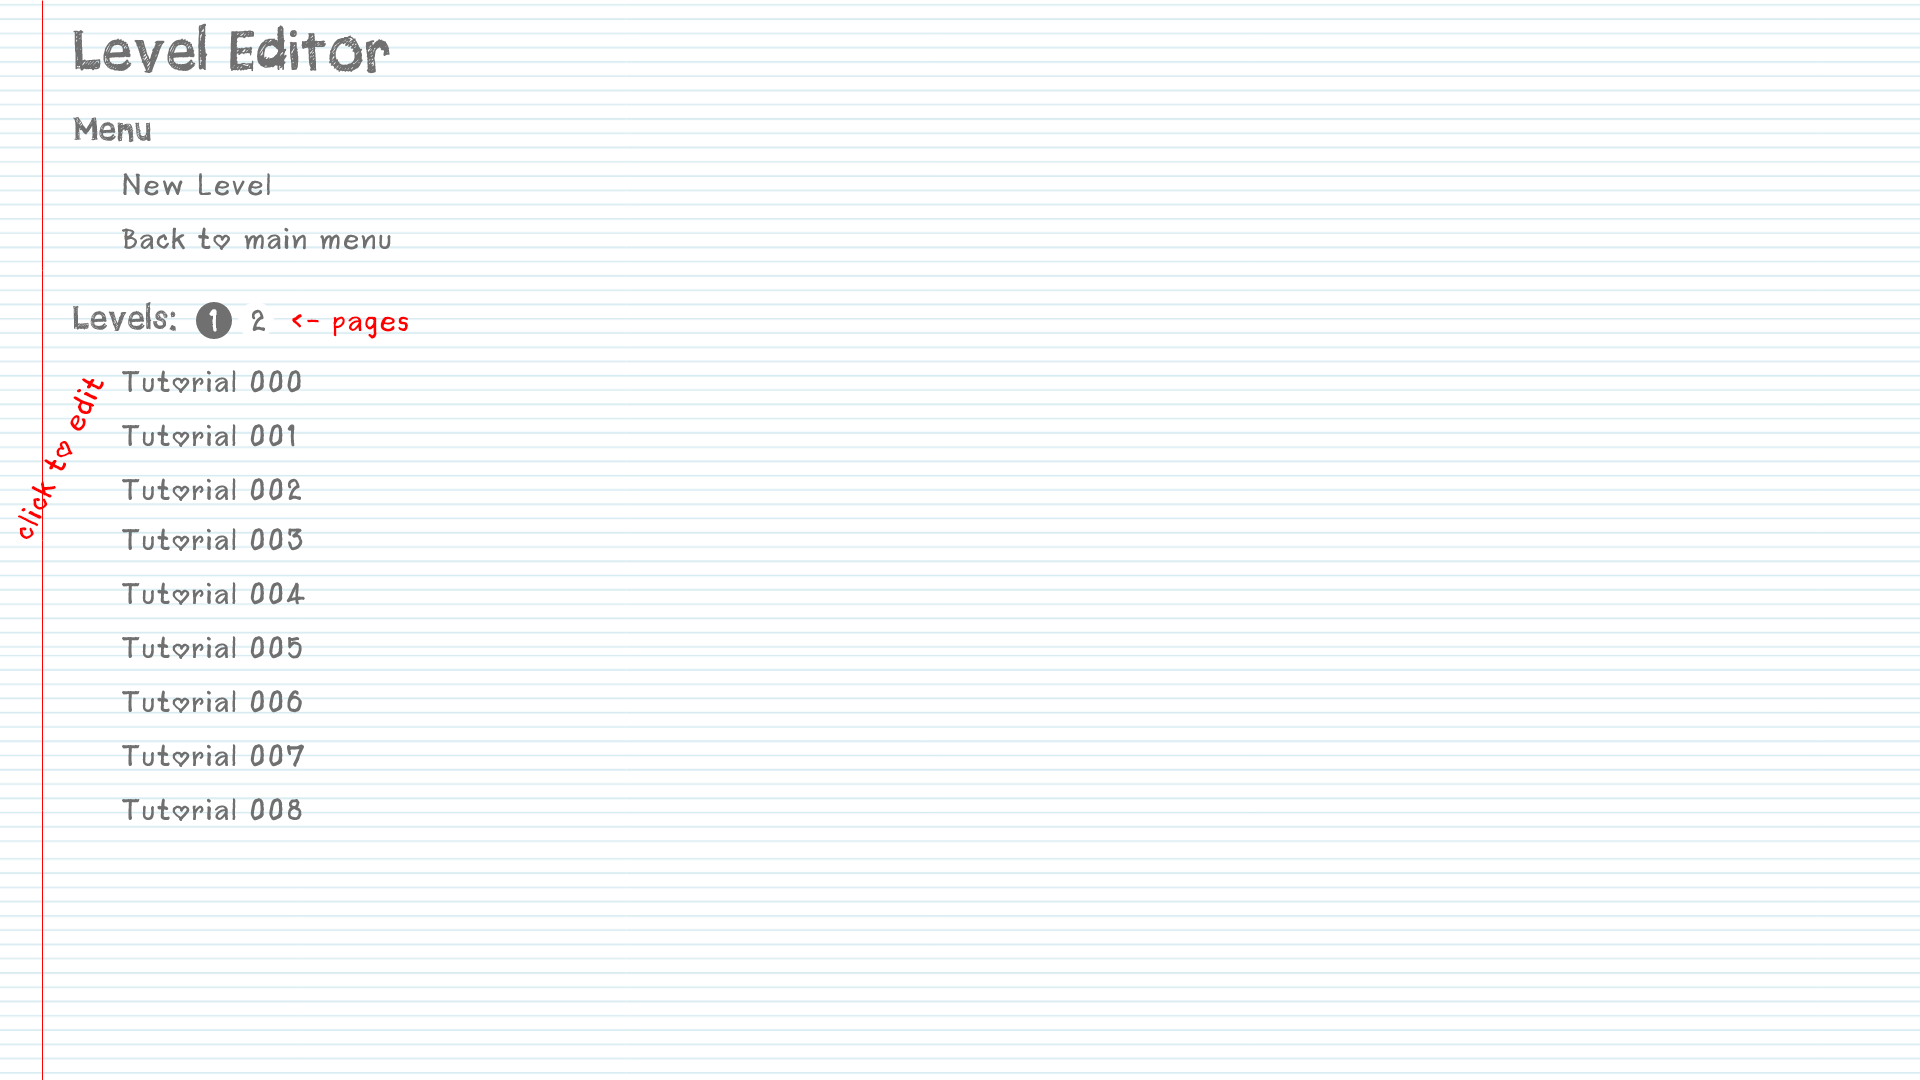
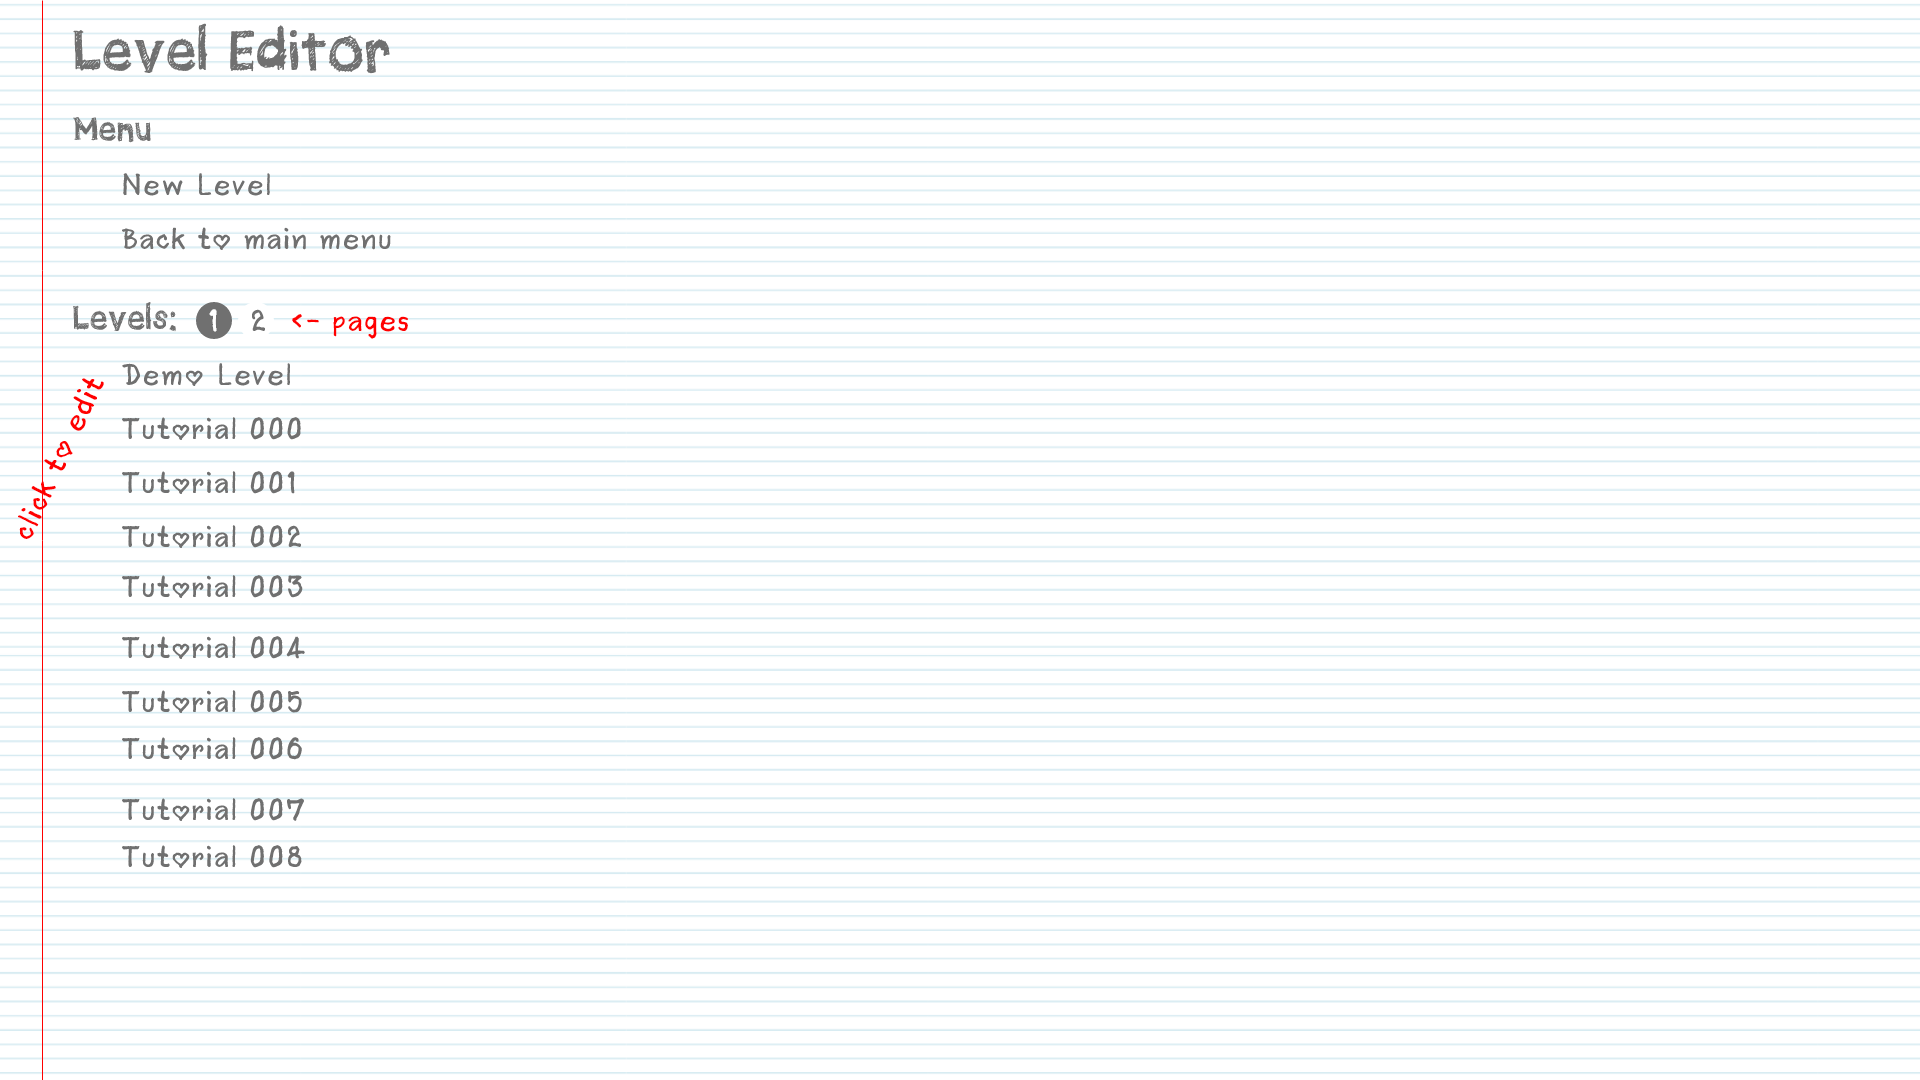
WIP: Level Editor Designs, Level Editor PageState

Changed region(s): [[0.0625, 0.3361, 0.1562, 0.5806], [0.0625, 0.7639, 0.1562, 0.825], [0.0625, 0.6722, 0.1562, 0.7028]]

diff --git a/PaperTanksV2-Client/PageStates/LevelEditorPage.cs b/PaperTanksV2-Client/PageStates/LevelEditorPage.cs
@@ -1,11 +1,31 @@
-using SFML.Graphics;
+using PaperTanksV2Client.GameEngine;
+using PaperTanksV2Client.UI;
+using SFML.Graphics;
 using SkiaSharp;
 using System;
+using System.Collections.Generic;
 
 namespace PaperTanksV2Client.PageStates
 {
     public class LevelEditorPage : PageState, IDisposable
     {
+        private LevelEditorPageState currentMenu = LevelEditorPageState.MainMenu;
+        
+        private List<MenuItem> MainMenuItems = new List<MenuItem>();
+        private int CurrentPage = 0;
+        private int TotalPages = 1;
+        private List<MenuItem> LevelEditorMenuItems = new List<MenuItem>();
+        private SKTypeface menuTypeface = null;
+        private SKFont menuFont = null;
+        private SKTypeface secondMenuTypeface = null;
+        private SKFont secondMenuFont = null;
+        private SKPaint antiPaint = new SKPaint {
+            IsAntialias = false,
+            FilterQuality = SKFilterQuality.High
+        };
+        private SKPaint p = new SKPaint();
+        ViewPort viewPort;
+        PaperPageRenderer paperRenderer;
         public void Dispose()
         {
             
@@ -13,11 +33,40 @@ namespace PaperTanksV2Client.PageStates
 
         public void init(Game game)
         {
-            
+            this.p.Color = SKColors.Red;
+            bool loaded2 = game.resources.Load(ResourceManagerFormat.Font, "QuickPencil-Regular.ttf");
+            if (!loaded2) throw new Exception("Error Loading Menu Font");
+            menuTypeface = SKTypeface.FromData((SKData) game.resources.Get(ResourceManagerFormat.Font, "QuickPencil-Regular.ttf"));
+            menuFont = new SKFont(menuTypeface, 72);
+            bool loaded3 = game.resources.Load(ResourceManagerFormat.Font, "Aaa-Prachid-Hand-Written.ttf");
+            if (!loaded3) throw new Exception("Error Loading Menu Font");
+            secondMenuTypeface = SKTypeface.FromData((SKData) game.resources.Get(ResourceManagerFormat.Font, "Aaa-Prachid-Hand-Written.ttf"));
+            secondMenuFont = new SKFont(menuTypeface, 72);
+            Vector2Data viewSize = new Vector2Data(
+                game.bitmap.Width * 2, 
+                game.bitmap.Height
+            );
+            this.viewPort = new ViewPort(viewSize, new QuadTree(new BoundsData(new Vector2Data(0, 0), viewSize)));
+            this.paperRenderer = new PaperPageRenderer(
+                pageWidth: game.bitmap.Width * 2,
+                pageHeight: game.bitmap.Height,
+                spacing: 20,
+                totalLines: 60
+            );
+            this.GenerateUI(game);
         }
 
         public void input(Game game)
         {
+            if (currentMenu == LevelEditorPageState.MainMenu) {
+                foreach (MenuItem b in MainMenuItems) {
+                    b.Input(game);
+                }
+            } else if (currentMenu == LevelEditorPageState.LevelEditor) {
+                foreach (MenuItem b in LevelEditorMenuItems) {
+                    b.Input(game);
+                }                
+            }
         }
 
         public void update(Game game, float deltaTime)
@@ -26,14 +75,50 @@ namespace PaperTanksV2Client.PageStates
 
         public void prerender(Game game, SKCanvas canvas, RenderStates renderStates)
         {
+            paperRenderer.Render(canvas, viewPort);
         }
 
         public void render(Game game, SKCanvas canvas, RenderStates renderStates)
         {
+            if (currentMenu == LevelEditorPageState.MainMenu) {
+                foreach (MenuItem b in MainMenuItems) {
+                    b.Render(game, canvas);
+                }
+            } else if (currentMenu == LevelEditorPageState.LevelEditor) {
+                foreach (MenuItem b in LevelEditorMenuItems) {
+                    b.Render(game, canvas);
+                }
+            }
         }
 
         public void postrender(Game game, SKCanvas canvas, RenderStates renderStates)
         {
+        }
+
+        public void GenerateUI(Game game)
+        {
+            // Setup Main Menu Items
+            int topY = 48;
+            int spacingY = 64;
+            int spacingSmallY = 32;
+            int indentX = 32;
+            int leftX = 72;
+            MainMenuItems.Add(new PaperTanksV2Client.UI.Text("Level Editor", leftX, topY, SKColor.Parse("#58aff3"), menuTypeface, menuFont, 72f, SKTextAlign.Left));
+            topY += spacingY;
+            MainMenuItems.Add(new PaperTanksV2Client.UI.Text("Menu", leftX, topY, SKColor.Parse("#58aff3"), menuTypeface, menuFont, 48f, SKTextAlign.Left));
+            topY += spacingY;
+            MainMenuItems.Add(new Button("- New Level", leftX + indentX, topY, SKColors.Black, SKColor.Parse("#58aff3"), menuTypeface, menuFont, 32f, SKTextAlign.Left, (g) => {
+                
+            }));topY += spacingSmallY;
+            MainMenuItems.Add(new Button("- Back to main menu", leftX + indentX, topY, SKColors.Black, SKColor.Parse("#58aff3"), menuTypeface, menuFont, 32f, SKTextAlign.Left, (g) => {
+                PageState mmp = new MainMenuPage();
+                mmp.init(game);
+                game.states.Clear();
+                game.states.Add(mmp);
+            }));
+            topY += spacingY;
+            MainMenuItems.Add(new PaperTanksV2Client.UI.Text("Levels:", leftX, topY, SKColor.Parse("#58aff3"), menuTypeface, menuFont, 64f, SKTextAlign.Left));
+            // Pages
         }
     }
 }

diff --git a/PaperTanksV2-Client/LevelEditorPageState.cs b/PaperTanksV2-Client/LevelEditorPageState.cs
@@ -1,0 +1,8 @@
+namespace PaperTanksV2Client
+{
+    public enum LevelEditorPageState
+    {
+        MainMenu,
+        LevelEditor
+    }
+}
